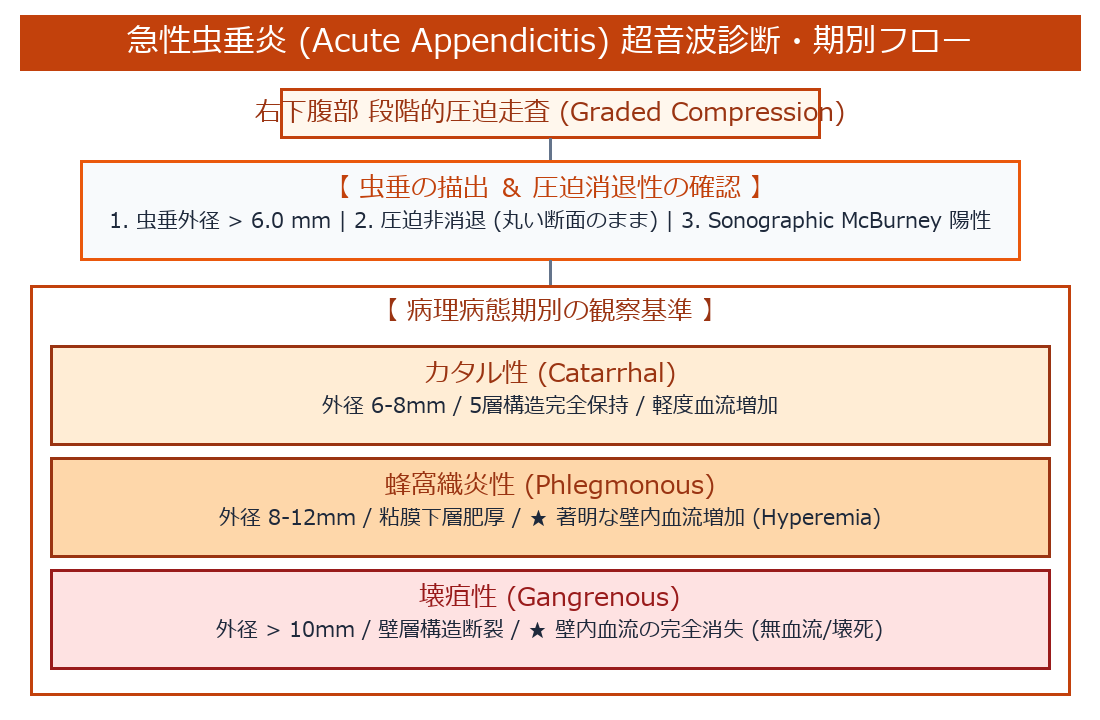
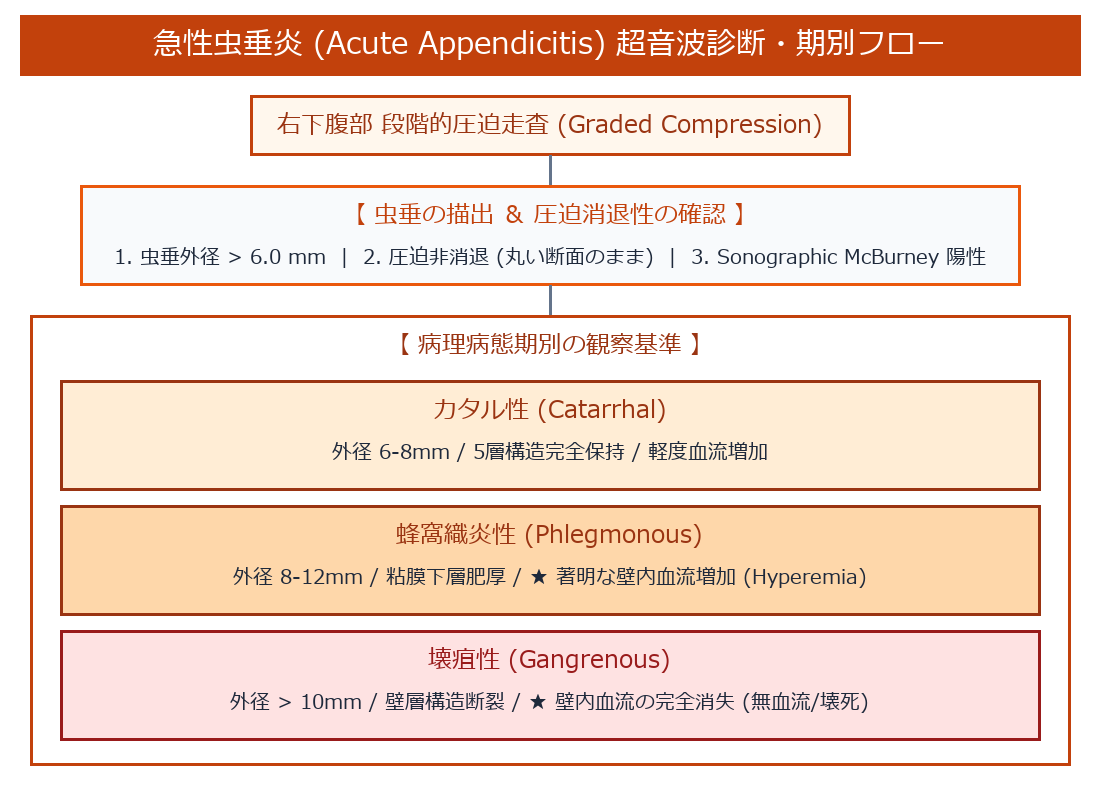
Fix text overflow and border overlap in appendicitis_flowchart.png using precise two-line box rendering

Changed region(s): [[0.0309, 0.3972, 0.9891, 0.9778], [0.0309, 0.0306, 0.9891, 0.3667]]

diff --git a/fix_app_image.py b/fix_app_image.py
@@ -1,0 +1,76 @@
+import os
+from PIL import Image, ImageDraw, ImageFont
+
+font_title = font_large = font_mid = font_small = None
+font_paths = ["C:/Windows/Fonts/meiryo.ttc", "C:/Windows/Fonts/msgothic.ttc", "C:/Windows/Fonts/arial.ttf"]
+
+for fp in font_paths:
+    if os.path.exists(fp):
+        try:
+            font_title = ImageFont.truetype(fp, 30)
+            font_large = ImageFont.truetype(fp, 24)
+            font_mid = ImageFont.truetype(fp, 20)
+            font_small = ImageFont.truetype(fp, 17)
+            break
+        except Exception:
+            continue
+
+if font_title is None:
+    font_title = font_large = font_mid = font_small = ImageFont.load_default()
+
+img_dir = r"C:\Antigravity\超音波検査\腹部超音波検査_教科書\03_疾患別超音波所見\images"
+os.makedirs(img_dir, exist_ok=True)
+
+# Helper function for perfectly centered two-line boxes (Zero overlap)
+def draw_two_line_box(draw, box, fill_bg, outline_c, title, desc_text, title_color=None):
+    x1, y1, x2, y2 = box
+    draw.rectangle(box, fill=fill_bg, outline=outline_c, width=3)
+    t_c = title_color if title_color else outline_c
+    cx = (x1 + x2) // 2
+    
+    if not desc_text:
+        draw.text((cx, (y1 + y2) // 2), title, fill=t_c, font=font_large, anchor="mm")
+    else:
+        draw.text((cx, y1 + 30), title, fill=t_c, font=font_large, anchor="mm")
+        draw.text((cx, y1 + 72), desc_text, fill="#1e293b", font=font_mid, anchor="mm")
+
+# 1. Appendicitis Flowchart (Perfect Fit Fix)
+def make_app_flow_fixed():
+    w, h = 1100, 800
+    img = Image.new("RGB", (w, h), (255, 255, 255))
+    draw = ImageDraw.Draw(img)
+    
+    # Header
+    draw.rectangle([(20, 15), (1080, 75)], fill="#c2410c")
+    draw.text((550, 45), "急性虫垂炎 (Acute Appendicitis) 超音波診断・期別フロー", fill="#ffffff", font=font_title, anchor="mm")
+    
+    # Level 1 Root (Height: 60px)
+    draw_two_line_box(draw, (250, 95, 850, 155), "#fff7ed", "#c2410c", "右下腹部 段階的圧迫走査 (Graded Compression)", "", title_color="#9a3412")
+    
+    draw.line([(550, 155), (550, 185)], fill="#64748b", width=3)
+    
+    # Level 2 Signature Box (Height: 100px)
+    draw_two_line_box(draw, (80, 185, 1020, 285), "#f8fafc", "#ea580c", "【 虫垂の描出 ＆ 圧迫消退性の確認 】", "1. 虫垂外径 > 6.0 mm  |  2. 圧迫非消退 (丸い断面のまま)  |  3. Sonographic McBurney 陽性", title_color="#c2410c")
+    
+    draw.line([(550, 285), (550, 315)], fill="#64748b", width=3)
+    
+    # Level 3 Container (Height: 450px)
+    draw.rectangle([(30, 315), (1070, 765)], fill="#ffffff", outline="#c2410c", width=3)
+    draw.text((550, 345), "【 病理病態期別の観察基準 】", fill="#9a3412", font=font_large, anchor="mm")
+    
+    stages = [
+        ("カタル性 (Catarrhal)", "外径 6-8mm / 5層構造完全保持 / 軽度血流増加", "#ffedd5", "#9a3412"),
+        ("蜂窩織炎性 (Phlegmonous)", "外径 8-12mm / 粘膜下層肥厚 / ★ 著明な壁内血流増加 (Hyperemia)", "#fed7aa", "#9a3412"),
+        ("壊疽性 (Gangrenous)", "外径 > 10mm / 壁層構造断裂 / ★ 壁内血流の完全消失 (無血流/壊死)", "#fee2e2", "#991b1b")
+    ]
+    
+    y = 380
+    for title, desc, bg_c, text_c in stages:
+        draw_two_line_box(draw, (60, y, 1040, y + 110), bg_c, text_c, title, desc, title_color=text_c)
+        y += 125
+        
+    path = os.path.join(img_dir, "appendicitis_flowchart.png")
+    img.save(path, quality=95)
+    print("Fixed Appendicitis Flowchart: appendicitis_flowchart.png generated successfully!")
+
+make_app_flow_fixed()
